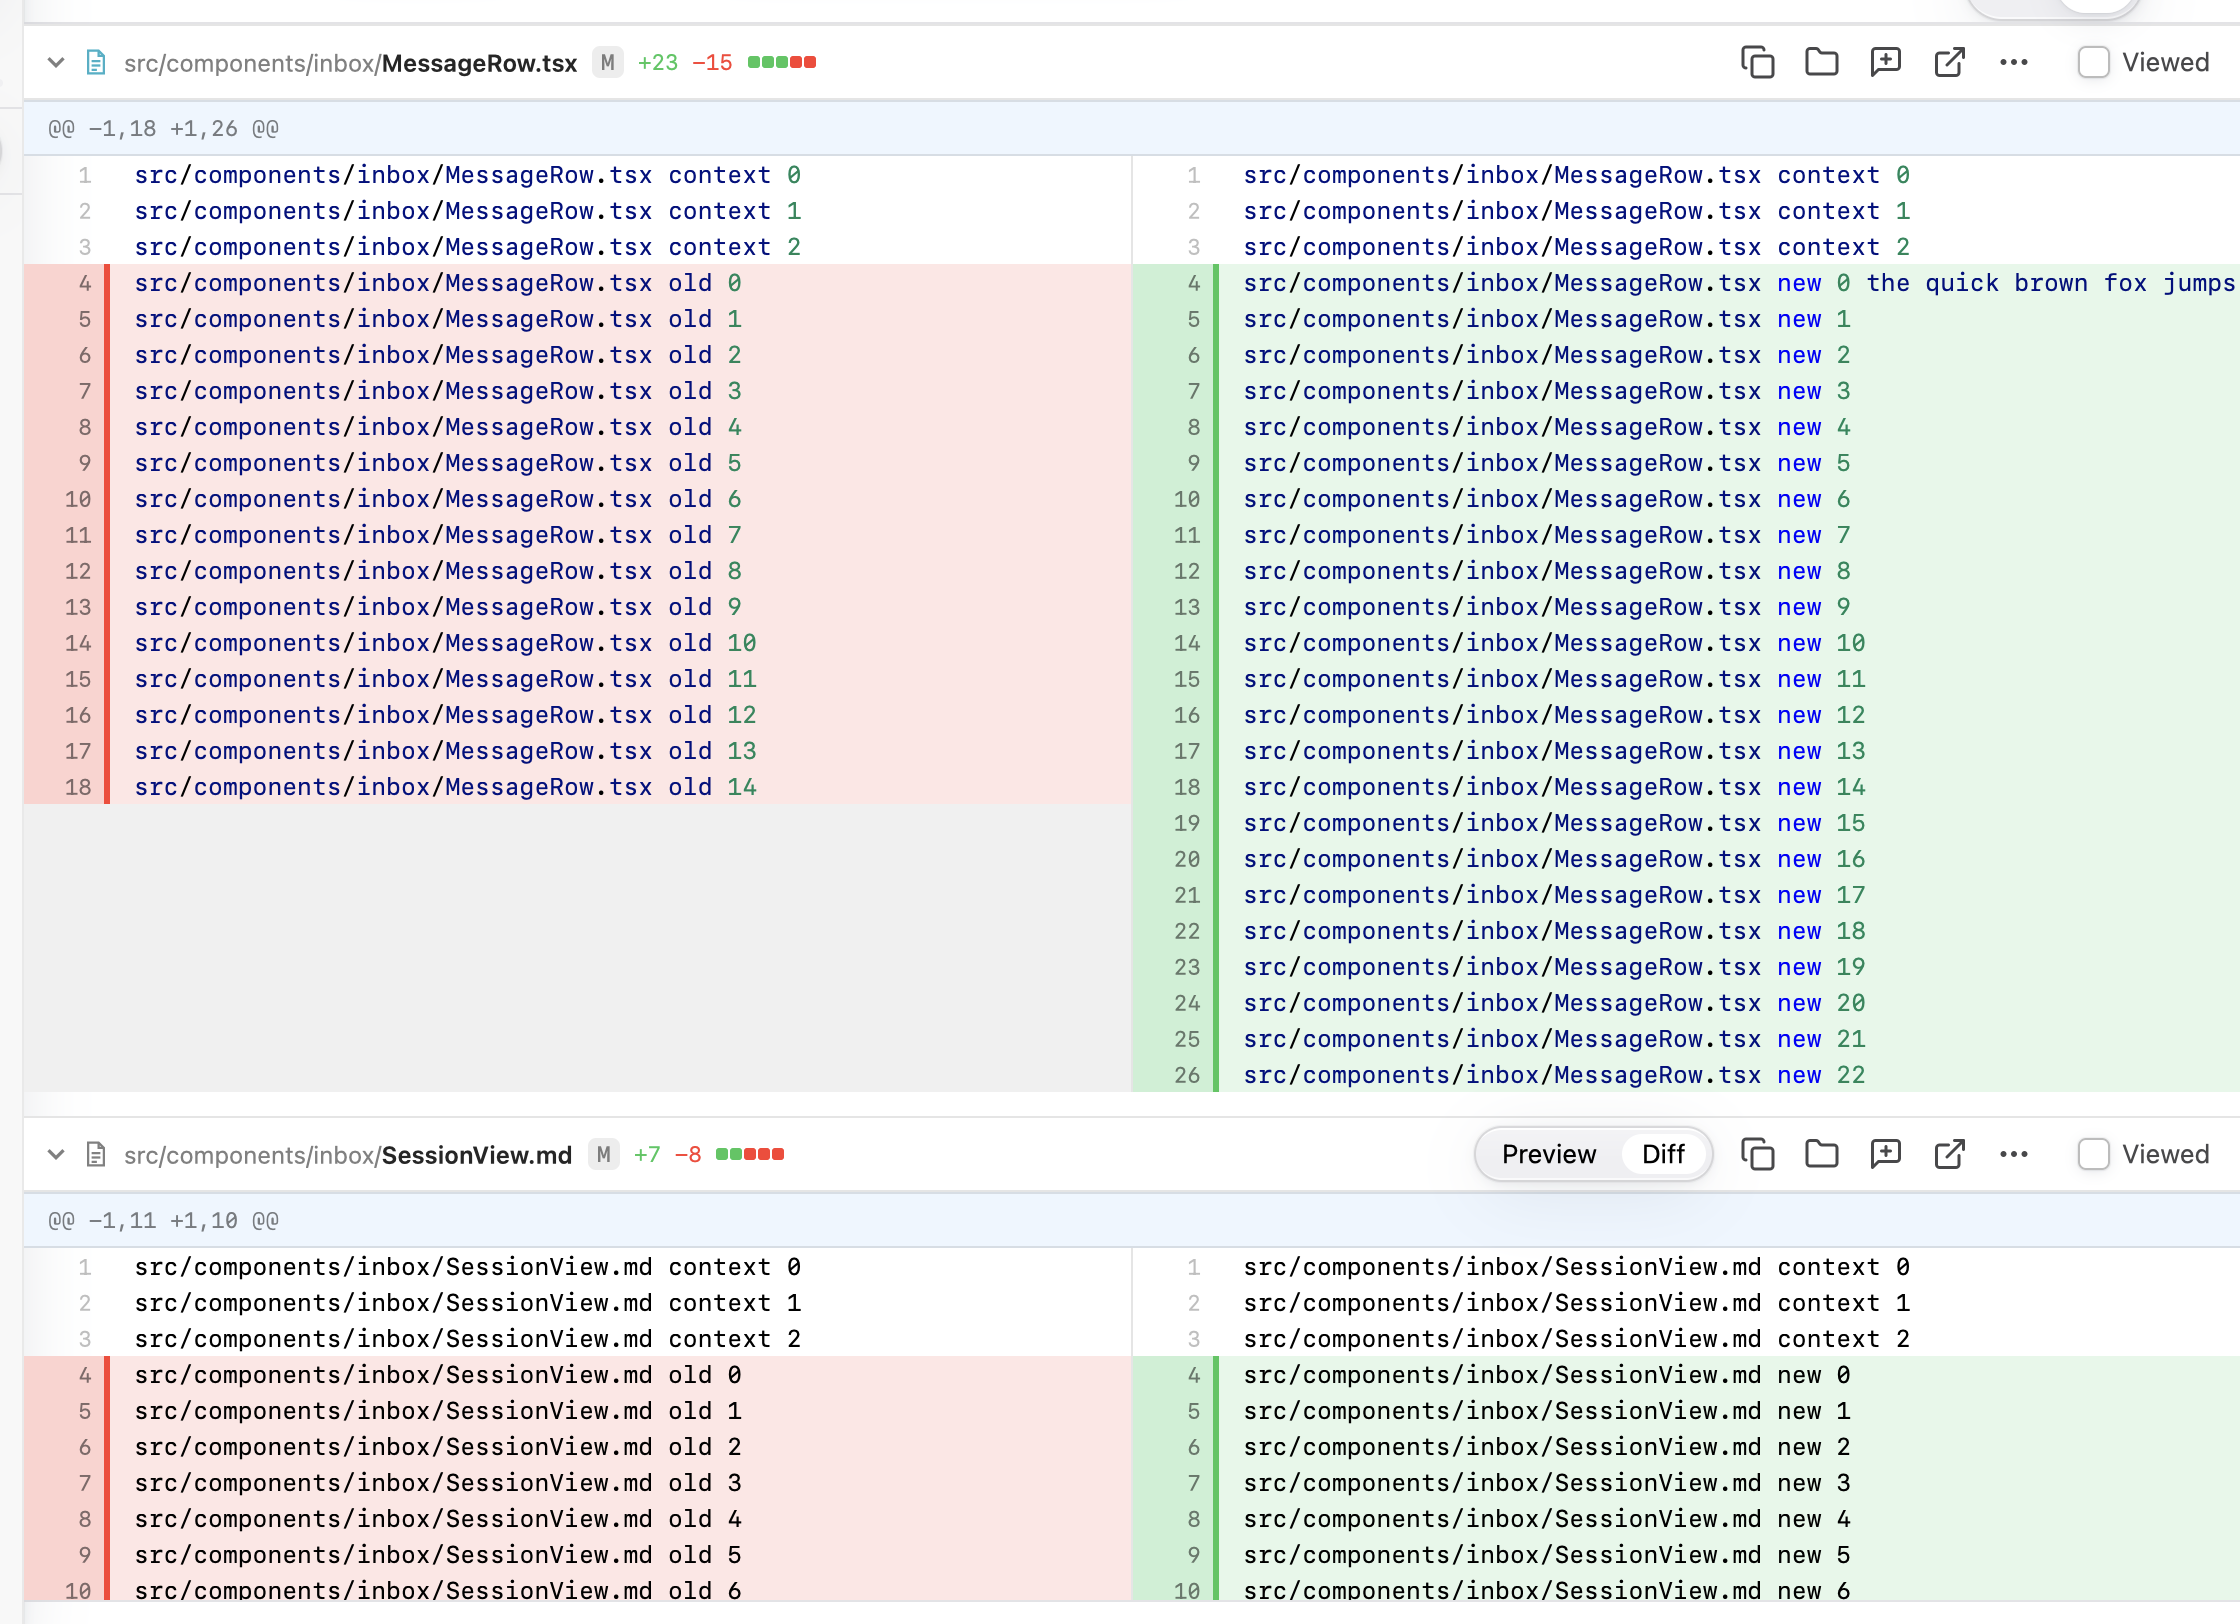
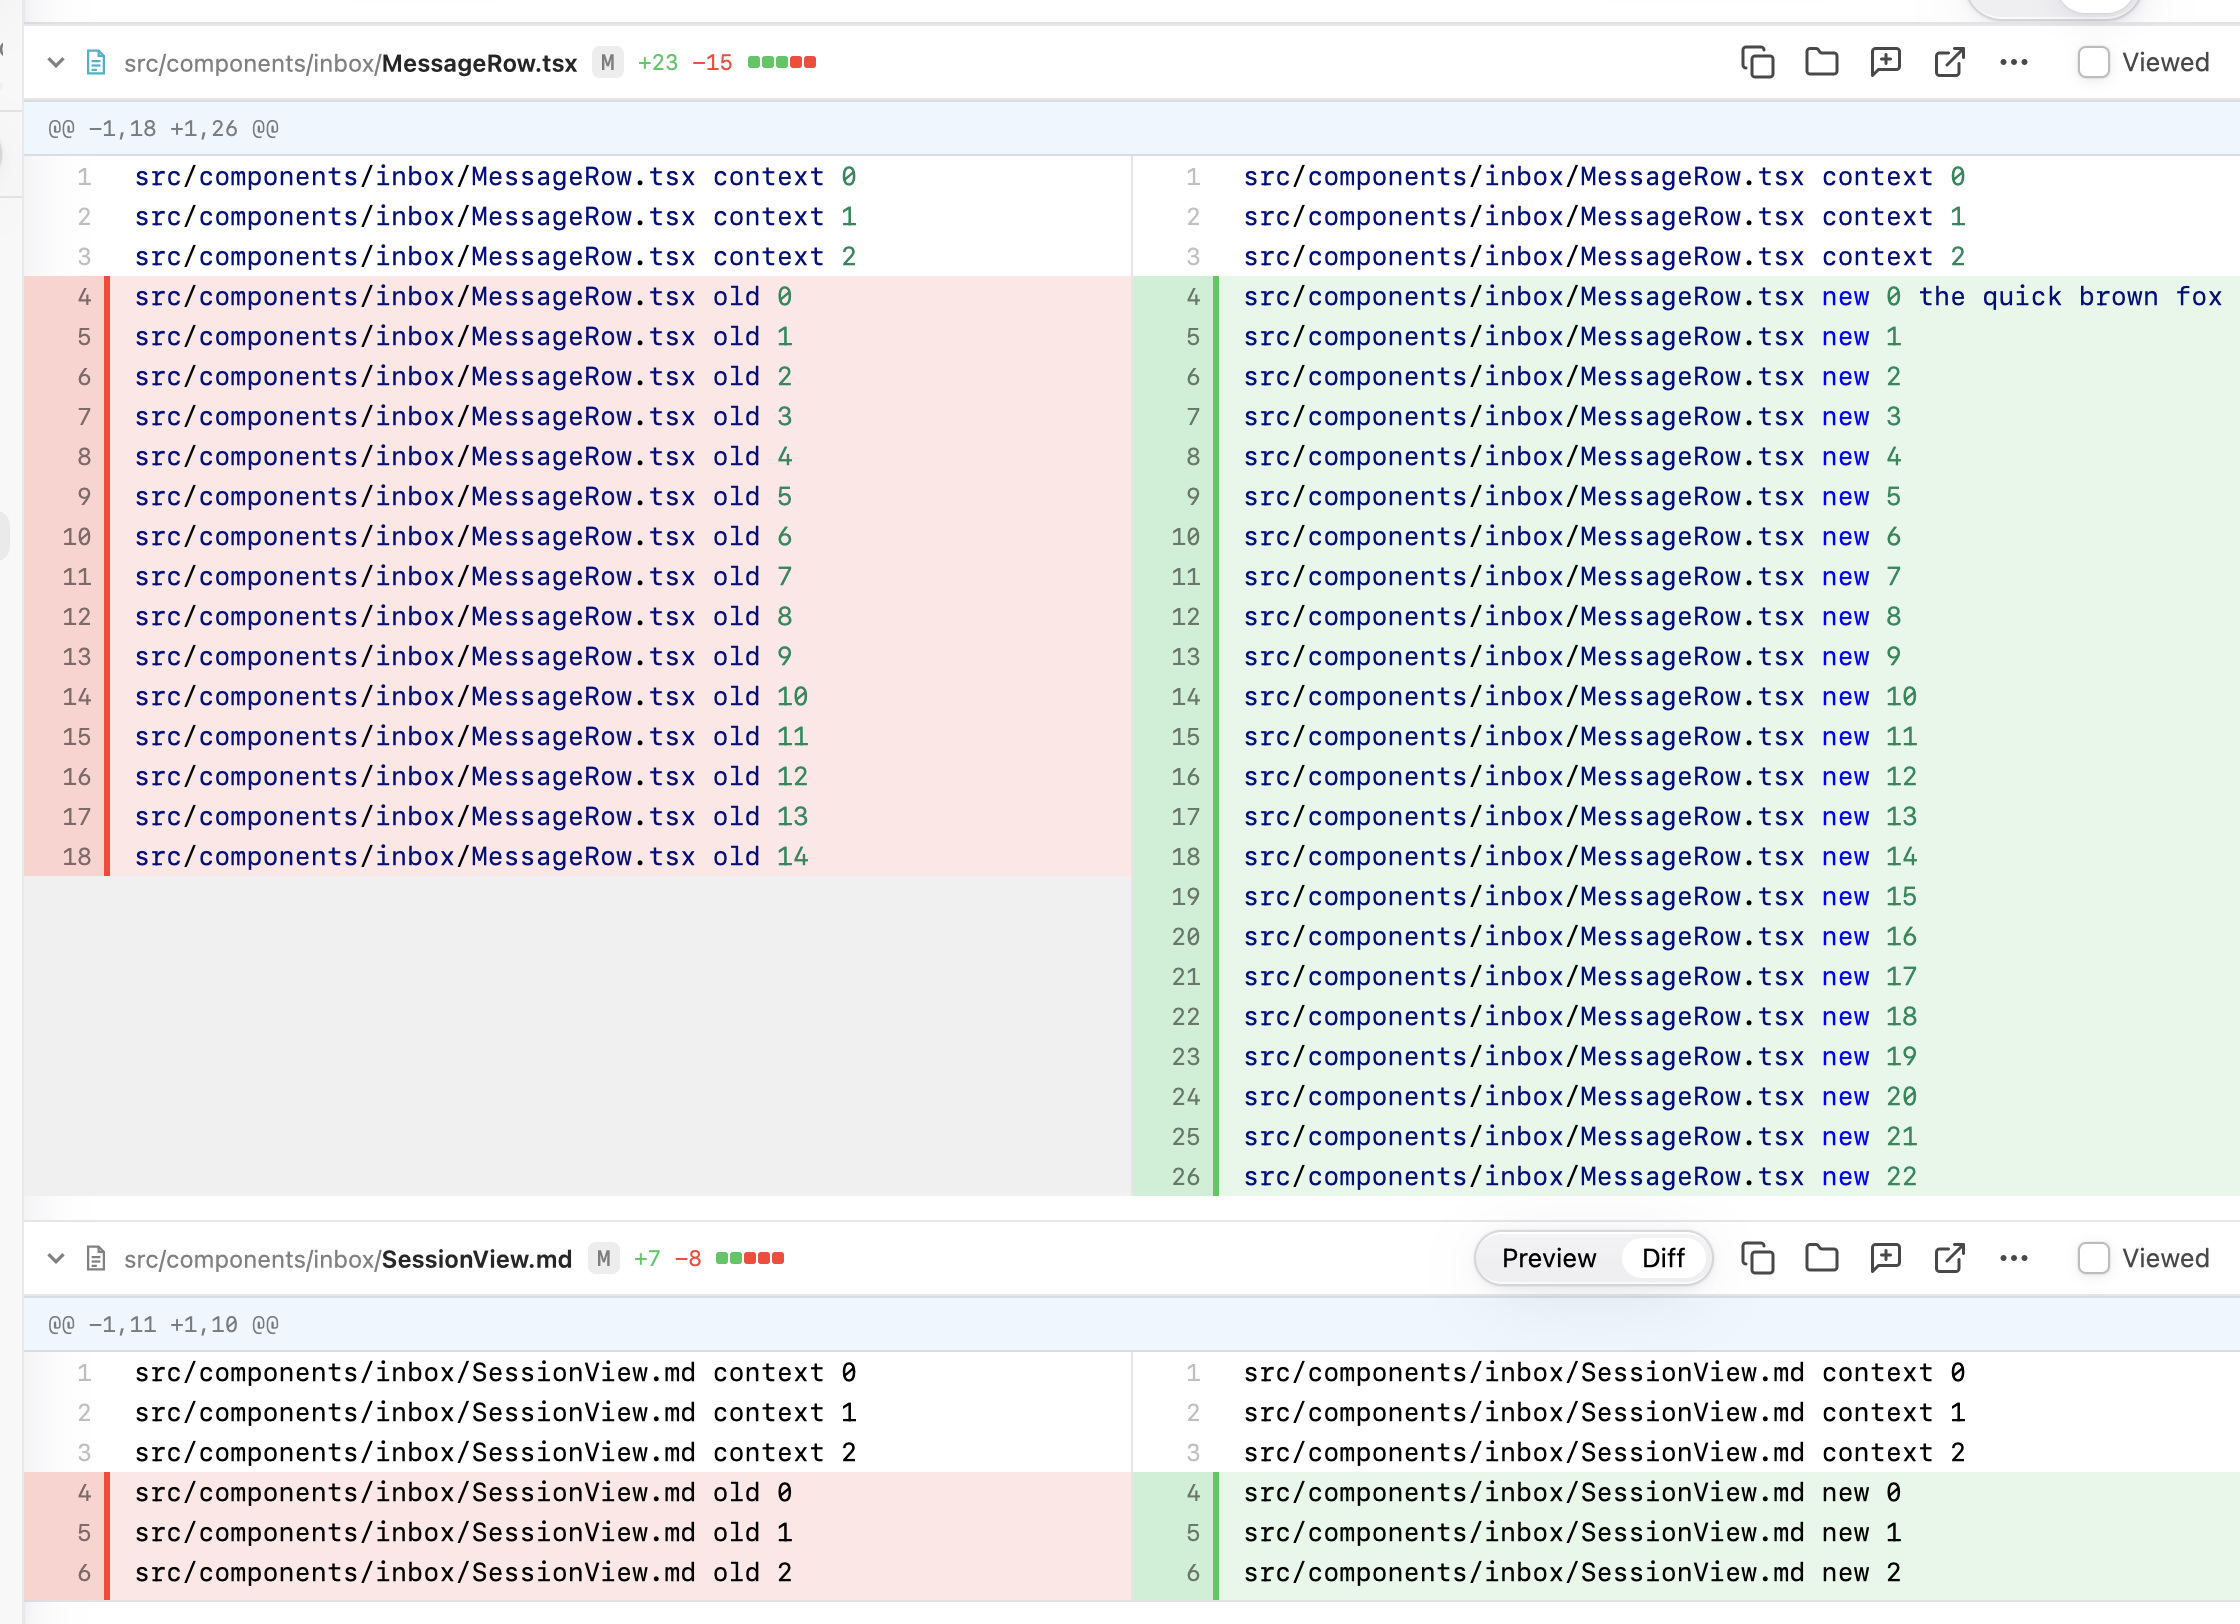
feat(app): use larger text in the diff, previews and file list
Code is now 13 px, Markdown preview text is 14 px, and file names in
the sidebar are 13 px. Line heights and sidebar rows grow to match.

Changed region(s): [[0.0, 0.0924, 1.0, 0.9852], [0.9375, 0.7081, 1.0, 0.7389], [0.3125, 0.7081, 0.3438, 0.7389]]

diff --git a/gpui-app/src/sidebar.rs b/gpui-app/src/sidebar.rs
@@ -21,7 +21,7 @@ use std::sync::Arc;
 
 actions!(sidebar, [SelectPrevious, SelectNext, ArrowLeft, ArrowRight]);
 
-pub const ROW_HEIGHT: f32 = 24.0;
+pub const ROW_HEIGHT: f32 = 26.0;
 const INDENT: f32 = 14.0;
 const CONTEXT: &str = "Sidebar";
 
@@ -258,7 +258,7 @@ impl Sidebar {
                     h_flex()
                         .gap_1()
                         .font_family(theme.mono_font_family.clone())
-                        .text_size(diffpilot_ui_kit::text_px(diffpilot_ui_kit::text_size::SMALL))
+                        .text_size(diffpilot_ui_kit::text_px(diffpilot_ui_kit::text_size::SECONDARY))
                         .child(
                             div()
                                 .text_color(tokens.success)
@@ -288,7 +288,7 @@ impl Sidebar {
                 tag(div(), || {
                     format!("sidebar:summary:{}/{} viewed", summary.viewed, summary.file_count)
                 })
-                .text_size(diffpilot_ui_kit::text_px(diffpilot_ui_kit::text_size::SECONDARY))
+                .text_size(diffpilot_ui_kit::text_px(diffpilot_ui_kit::text_size::BODY))
                 .text_color(muted)
                 .whitespace_nowrap()
                 .overflow_hidden()
@@ -383,7 +383,7 @@ impl Render for Sidebar {
         v_flex()
             .id("sidebar")
             .size_full()
-            .text_size(diffpilot_ui_kit::text_px(diffpilot_ui_kit::text_size::SECONDARY))
+            .text_size(diffpilot_ui_kit::text_px(diffpilot_ui_kit::text_size::BODY))
             .child(header)
             .child(filter_row)
             .child(
@@ -551,7 +551,7 @@ impl Sidebar {
                                 .flex_1()
                                 .min_w_0()
                                 .truncate()
-                                .text_size(diffpilot_ui_kit::text_px(diffpilot_ui_kit::text_size::SMALL))
+                                .text_size(diffpilot_ui_kit::text_px(diffpilot_ui_kit::text_size::SECONDARY))
                                 .text_color(tertiary)
                                 .child(SharedString::from(entry.parent_path.clone())),
                         )
@@ -561,7 +561,7 @@ impl Sidebar {
                         this.child(
                             tag(h_flex(), || format!("sidebar:comments:{path}:{comments}"))
                                 .gap(px(2.))
-                                .text_size(diffpilot_ui_kit::text_px(diffpilot_ui_kit::text_size::SMALL))
+                                .text_size(diffpilot_ui_kit::text_px(diffpilot_ui_kit::text_size::SECONDARY))
                                 .text_color(secondary)
                                 .child(Icon::new(Glyph::MessageSquare).size(px(11.)))
                                 .child(comments.to_string()),

diff --git a/gpui-app/src/diff_pane/preview.rs b/gpui-app/src/diff_pane/preview.rs
@@ -32,10 +32,10 @@ const IMAGE_PAD: f32 = 8.0;
 const FALLBACK_BOX: f32 = 120.0;
 const LABEL: f32 = 22.0;
 const META: f32 = 24.0;
-const TEXT: f32 = diffpilot_ui_kit::text_size::BODY;
-const LINE: f32 = 20.0;
-const CODE: f32 = 12.0;
-const CODE_LINE: f32 = 18.0;
+const TEXT: f32 = diffpilot_ui_kit::text_size::TITLE;
+const LINE: f32 = 22.0;
+const CODE: f32 = 13.0;
+const CODE_LINE: f32 = 20.0;
 const BLOCK_GAP: f32 = 10.0;
 const MARK_INSET: f32 = 12.0;
 const MODE_GAP: f32 = 12.0;
@@ -732,10 +732,10 @@ fn block_view(block: &Block, theme: &Theme, fonts: &Fonts) -> AnyElement {
     match block {
         Block::Heading { level, text } => {
             let (size, line) = match level {
-                1 => (22.0, 28.0),
-                2 => (18.0, 24.0),
-                3 => (16.0, 22.0),
-                _ => (14.0, 20.0),
+                1 => (24.0, 30.0),
+                2 => (20.0, 26.0),
+                3 => (17.0, 24.0),
+                _ => (15.0, 22.0),
             };
             let color = if *level == 6 { theme.diff.muted } else { theme.diff.text };
             rich(text, theme, fonts, size, line, color, FontWeight::SEMIBOLD)
@@ -817,8 +817,8 @@ fn table(head: &[Rich], rows: &[Vec<Rich>], theme: &Theme, fonts: &Fonts) -> Any
                         cell,
                         theme,
                         fonts,
-                        diffpilot_ui_kit::text_size::SECONDARY,
-                        18.0,
+                        diffpilot_ui_kit::text_size::BODY,
+                        20.0,
                         theme.diff.text,
                         weight,
                     ))

diff --git a/gpui-app/tests/flows/selection.rs b/gpui-app/tests/flows/selection.rs
@@ -1,4 +1,4 @@
-use diffpilot::diff_pane::layout::GUTTER;
+use diffpilot::diff_pane::layout::{GUTTER, LINE};
 use diffpilot::testing::{
     click, click_below, clipboard, drag_below, fixture, git, git_output, open_repo, press, wait_until,
     wait_until_shows, write,
@@ -49,7 +49,7 @@ fn dragging_over_the_numbers_selects_lines_to_copy_and_open_the_first_one(app: &
     );
 }
 
-const CELL: f32 = 7.2;
+const CELL: f32 = 7.8;
 const SECOND_ROW: f32 = 30.0;
 
 fn open_edit(app: &mut TestAppContext) -> (tempfile::TempDir, &'static mut gpui::VisualTestContext) {
@@ -110,7 +110,7 @@ fn dragging_over_code_can_span_lines(app: &mut TestAppContext) {
         cx,
         "pane:hunk:base.txt:0",
         (code(12.0), SECOND_ROW),
-        (code(2.0), SECOND_ROW + 18.0),
+        (code(2.0), SECOND_ROW + LINE),
     );
     press(cx, "cmd-c");
     assert_eq!(clipboard(cx).as_deref(), Some("beta;\nmo"));

diff --git a/gpui-app/src/diff_pane/lines.rs b/gpui-app/src/diff_pane/lines.rs
@@ -8,8 +8,8 @@ use gpui::{App, Bounds, ContentMask, Font, Hsla, Pixels, ShapedLine, TextRun, Wi
 use std::collections::HashMap;
 use std::ops::Range;
 
-pub const CODE_SIZE: f32 = 12.0;
-pub const NUMBER_SIZE: f32 = 11.0;
+pub const CODE_SIZE: f32 = 13.0;
+pub const NUMBER_SIZE: f32 = 12.0;
 const NUMBER_PADDING: f32 = 6.0;
 const MAX_UNWRAPPED_BYTES: usize = 4096;
 const MAX_CACHED_LINES: usize = 3000;

diff --git a/gpui-app/src/diff_pane/layout.rs b/gpui-app/src/diff_pane/layout.rs
@@ -9,7 +9,7 @@ use unicode_width::UnicodeWidthChar;
 pub const FILE_HEADER: f32 = 38.0;
 pub const HUNK: f32 = 28.0;
 pub const HUD: f32 = 34.0;
-pub const LINE: f32 = 18.0;
+pub const LINE: f32 = 20.0;
 pub const GAP: f32 = 12.0;
 pub const NOTICE: f32 = 96.0;
 pub const PREVIEW: f32 = 220.0;

diff --git a/CHANGELOG.md b/CHANGELOG.md
@@ -30,6 +30,7 @@ The format is based on [Keep a Changelog](https://keepachangelog.com/en/2.0.0/),
 
 - The toolbar is regrouped. What you compare sits next to the folder name. Ask Claude and the comments button share one pill on the right, next to push and pull.
 - Every list and panel that scrolls shows a scrollbar while you scroll, like the diff: the Guide, the inspector, comments, settings, menus, checks, Claude's plan and log, and the Open Folder lists. Drag it to move fast.
+- Diff text, Markdown previews, and the file list use larger text: code is 13 px, preview body text is 14 px, and file names are 13 px.
 
 ### Fixed
 
